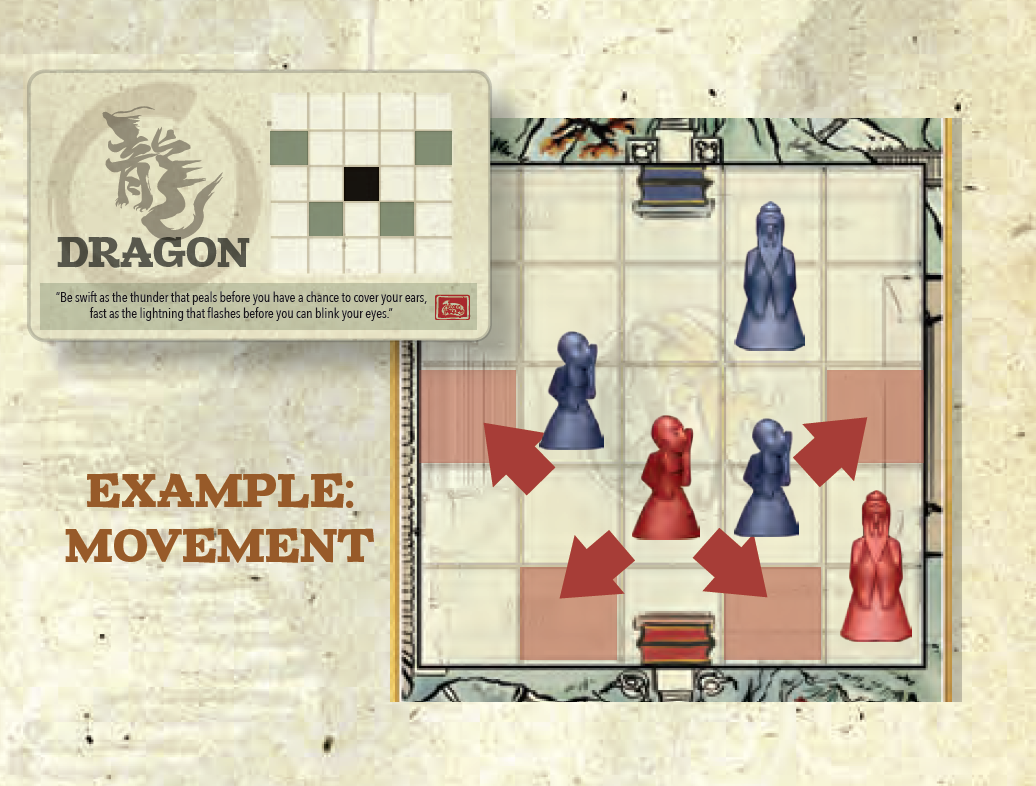
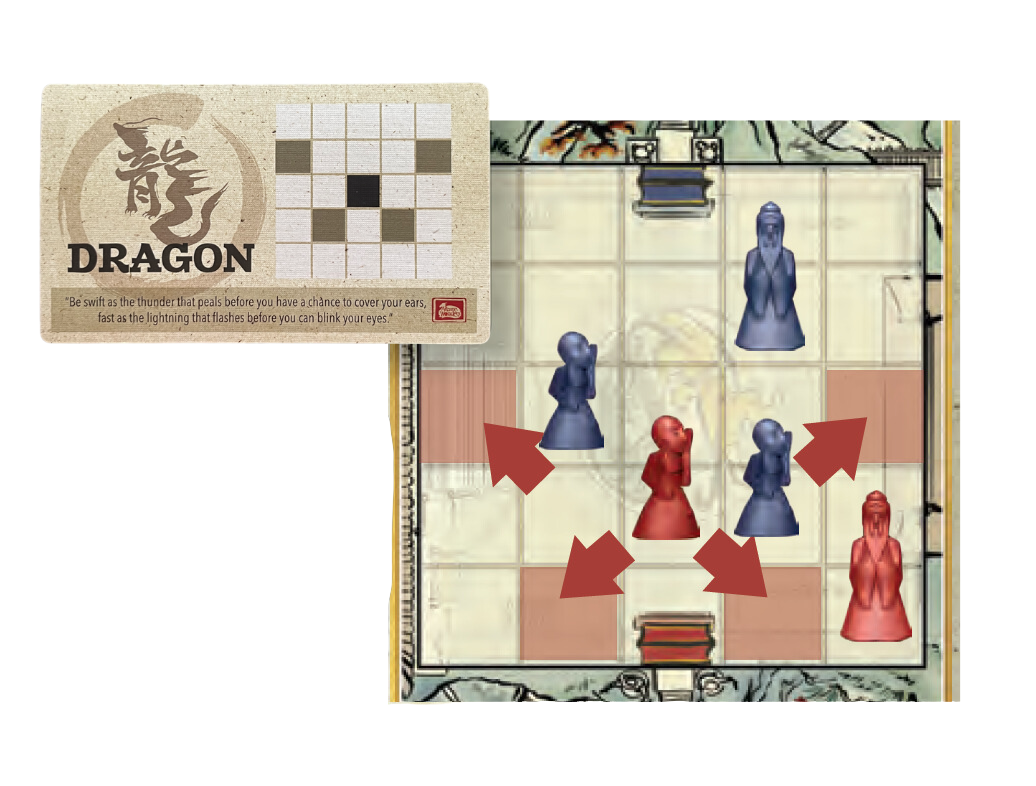
updating images and rule book

diff --git a/styles.css b/styles.css
@@ -46,14 +46,18 @@ Blue = #2a85b3
 #firstPlayer{
     width: 15rem;
     height: 8rem;
-    border: 5px solid white;
-    border-radius: 10px;
 }
 #movement2 {
     width: 14rem;
     height: 10rem;
-    border: 5px solid white;
-    border-radius: 10px;
+}
+#stream {
+    width: 16rem;
+    height: 14rem;
+}
+#stone{
+    width: 16rem;
+    height: 14rem; 
 }
 
 .modal-body{
@@ -97,6 +101,7 @@ Blue = #2a85b3
 }
 .label{
     color: darkgrey !important;
+    font-size: larger !important;
 }
 #gameboard{
    /* background-color: #EEE8C9; */
@@ -115,6 +120,10 @@ Blue = #2a85b3
    grid-template-rows: 60px 150px 350px 150px 20px; 
    grid-column-gap: 0px;
    grid-row-gap: 0px; 
+   background-image: url('/images/background.png');
+   background-size: 100vw 100vh;
+   background-repeat: no-repeat;
+   background-position: static;
 }
 .background-image{
     grid-area: 1 / 3 / 6 / 6; 
@@ -134,7 +143,6 @@ Blue = #2a85b3
     display: flex;
     justify-content: flex-start;
     z-index: 0;
-    background-image: url('/images/japan-temple.png');
     background-size:cover;
     background-position-x: right;
     background-repeat: no-repeat;

diff --git a/new.html b/new.html
@@ -98,7 +98,12 @@
                         <ul>
                         <li> To win in the Way of the Stone, you must capture your opponent’s Master pawn.</li>
                         <br>
+                        <img src="images/wayOfTheStone.png" alt="Way of the Stone" id="stone">
+                        <br>
+                        <br>
                         <li> To win in the Way of the Stream, you must move your own Master pawn into your opponent’s Temple Arch space.</li>
+                        <br>
+                        <img src="images/wayOfTheStream.png" alt="Way of the Stream" id="stream">
                         </ul>
                         <br>
 
